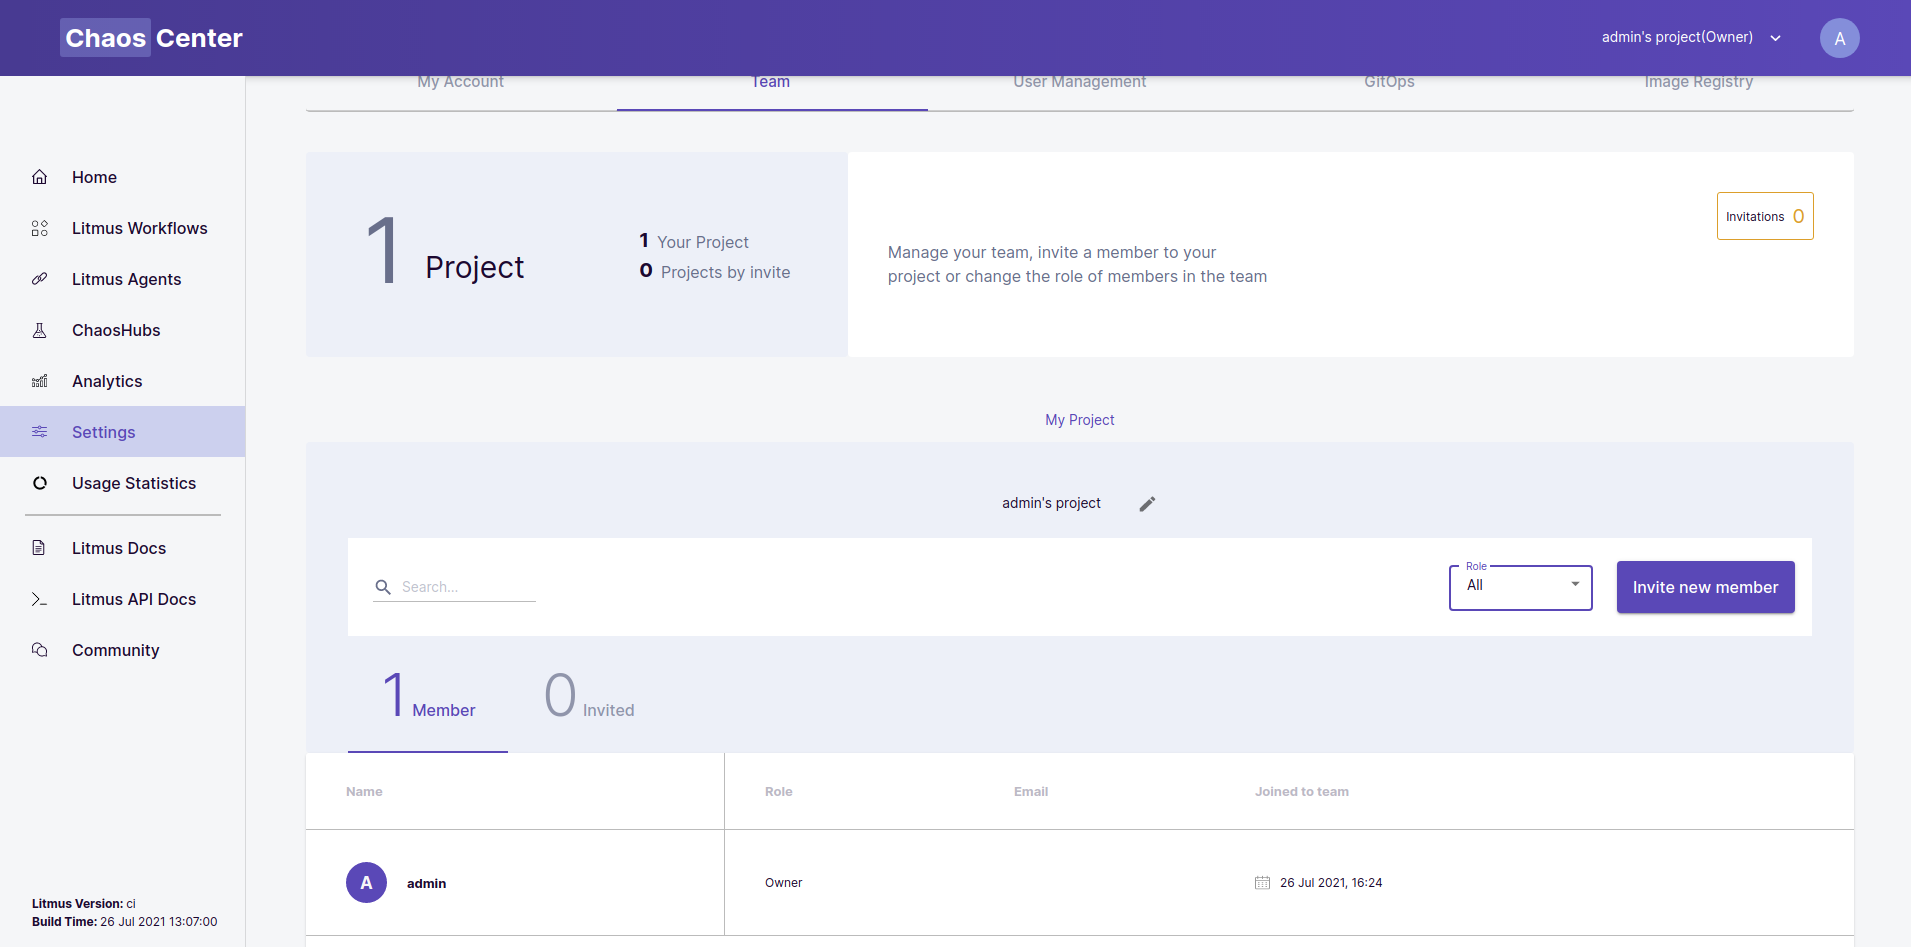
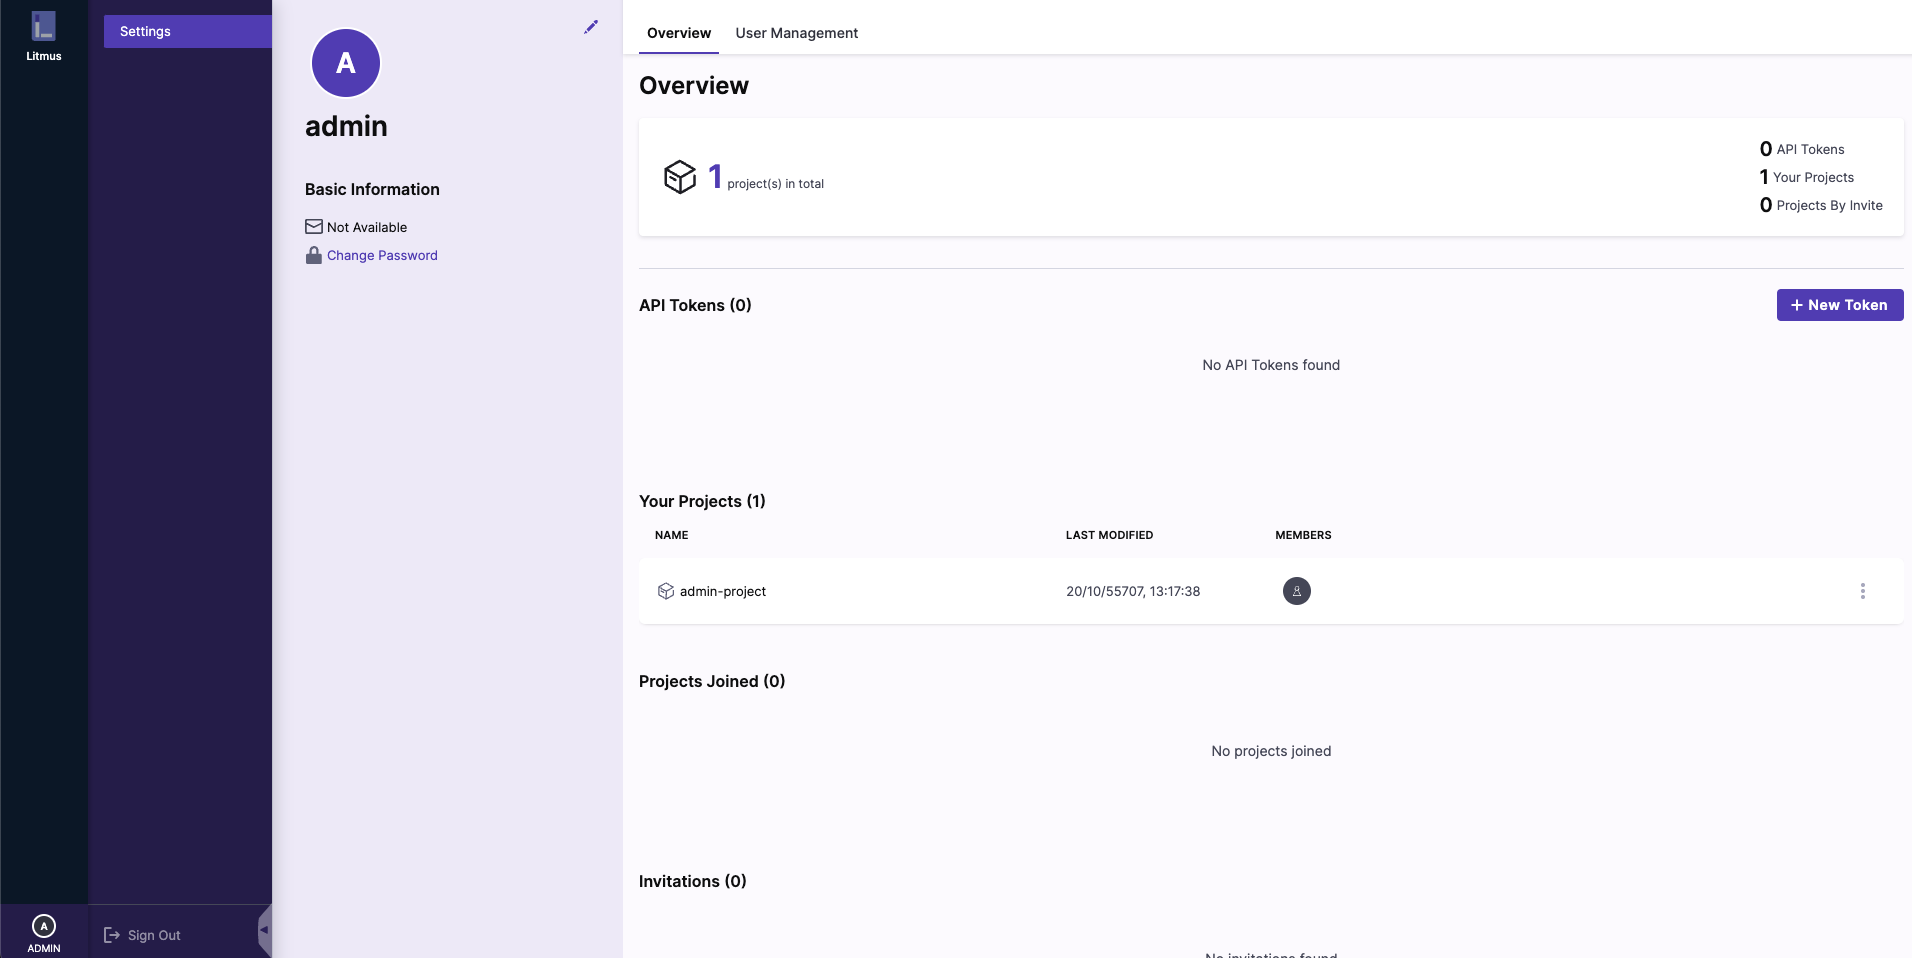
added managing project section user guides (#223)

diff --git a/website/versioned_docs/version-3.0.0/user-guides/change-project-name.md b/website/versioned_docs/version-3.0.0/user-guides/change-project-name.md
@@ -14,23 +14,23 @@ The concept of `Projects` is discussed [here](../concepts/projects.md) and will 
 
 ## Steps
 
-### 1. Go to `My Project`
+### 1. Go to `Account setting`
 
-Go to the `Team` section of settings and scroll to the `My project` section:
+Go to the `Overview` section of settings and scroll to the `Your Projects` section:
 
 <img src={require('../assets/user-guides/managing-projects/change-project-name/step-1.png').default} width="1000" height="500" />
 
 ### 2. Enter edit mode
 
-Click on either the text (demonstrated in this example as `admin’s project`) or on the edit icon next to it to enter the edit mode:
+Click options icon to open the options menu and click on the edit option (demonstrated in this example as `admin-project`) to enter the edit mode:
 
-<img src={require('../assets/user-guides/managing-projects/change-project-name/step-2.png').default} width="1000" height="500" />
+<img src={require('../assets/user-guides/managing-projects/change-project-name/step-2.png').default} />
 
 ### 3. Replace name
 
-Once in the editing mode, type out the name you want to replace the current name with, and click away anywhere in the screen. You will notice that the name of the project has been changed in the `My Project` section as well as the header of the portal.
+Once in the editing mode, type out the name you want to replace the current name with, and click on the `Confirm` button.
 
-<img src={require('../assets/user-guides/managing-projects/change-project-name/step-3.png').default} width="1000" height="500" />
+<img src={require('../assets/user-guides/managing-projects/change-project-name/step-3.png').default} />
 
 ## Learn more
 

diff --git a/website/versioned_docs/version-3.0.0/user-guides/leave-project.md b/website/versioned_docs/version-3.0.0/user-guides/leave-project.md
@@ -10,13 +10,15 @@ You can leave a project that you no longer wish to be a part of.
 
 ## 1. Identify the project you want to leave
 
-In the settings page, scroll to the very bottom of the `Team` tab. Here you will see a list of all the projects you are a part of, identify the project you’d like to leave and click on the `Leave Project` button:
+In the settings page, scroll to the `Projects Joined` section. Here you will see a list of all the projects you are a part of, identify the project you’d like to leave and click on the `Leave Project` button:
 
-<img src={require('../assets/user-guides/managing-projects/leave-project/step-1.png').default} width="1000" height="500" />
+<img src={require('../assets/user-guides/managing-projects/leave-project/step-1.png').default} />
 
 > Note: Having left the project, the number of active projects will change and the project you left can no longer be observed as a currently active project in the `Team` tab
 
-<img src={require('../assets/user-guides/managing-projects/leave-project/step-2.png').default} width="1000" height="500" />
+A confirmation dialog will pop up, click on the `Confirm` button to leave the project
+
+<img src={require('../assets/user-guides/managing-projects/leave-project/step-2.png').default} />
 
 ## Learn more
 
